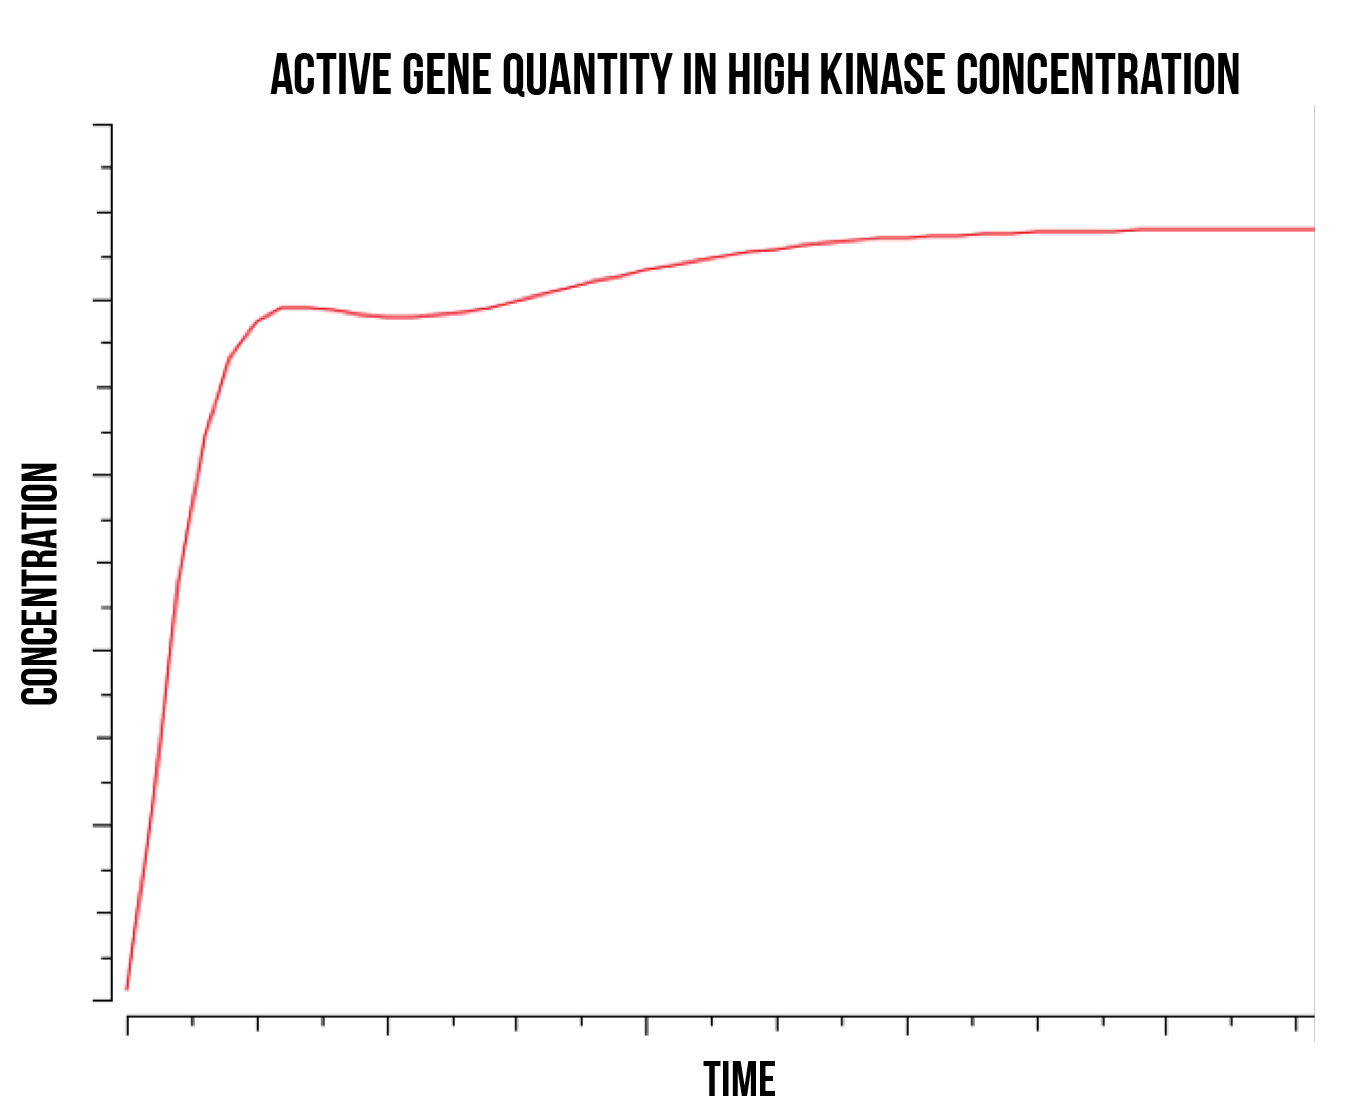
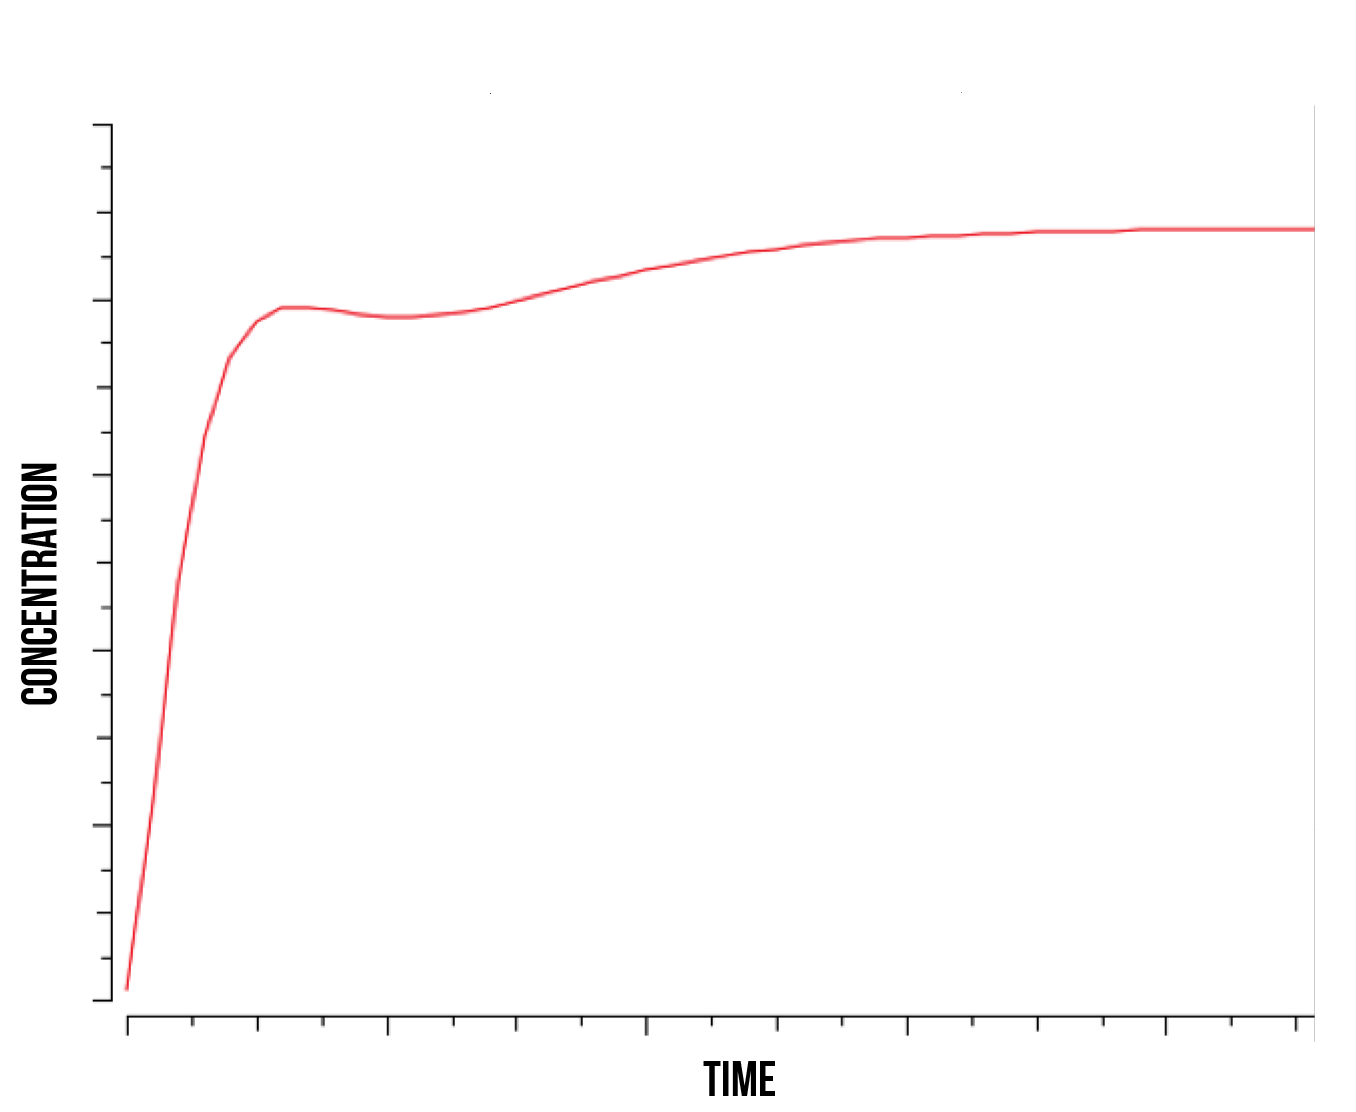
modelling images

Changed region(s): [[0.1858, 0.0306, 0.9292, 0.0917]]

diff --git a/model.html b/model.html
@@ -243,7 +243,7 @@
 			In figure 5, we show a plot of the quantity of oxidised Yap1p:Skn7 complex in the nucleus after a kinase has stabilized the bond. We can observe how its quantity increases until it reaches its peak and then decreases until stabilising again. This phenomenon was observed at wide numeric ranges in the Skn7 concentration and YAP1P localisation rate in the nucleus when in stress. 
 			</p><br></br>
 			<figure style="text-align: center">
-                    <img style="width:50%; height: 50%;" src="img/plot1.png"><figcaption style="text-align: center">
+                    <img style="width:50%; height: 50%;" src="img/plot5.png"><figcaption style="text-align: center">
 					Figure 5. The quantity of oxidised Yap1p:Skn7 complex in the nucleus after a kinase has stabilized the bond.
 					</figcaption>
         </figure>
